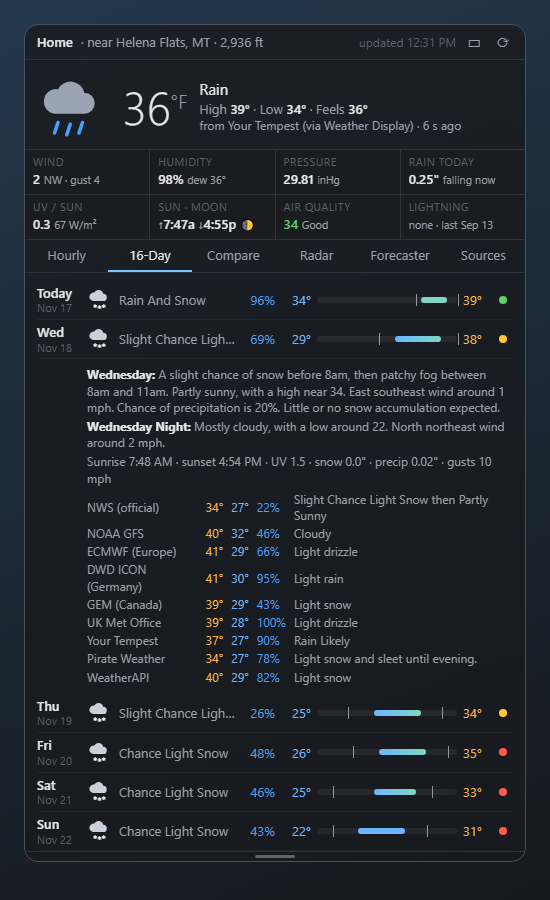
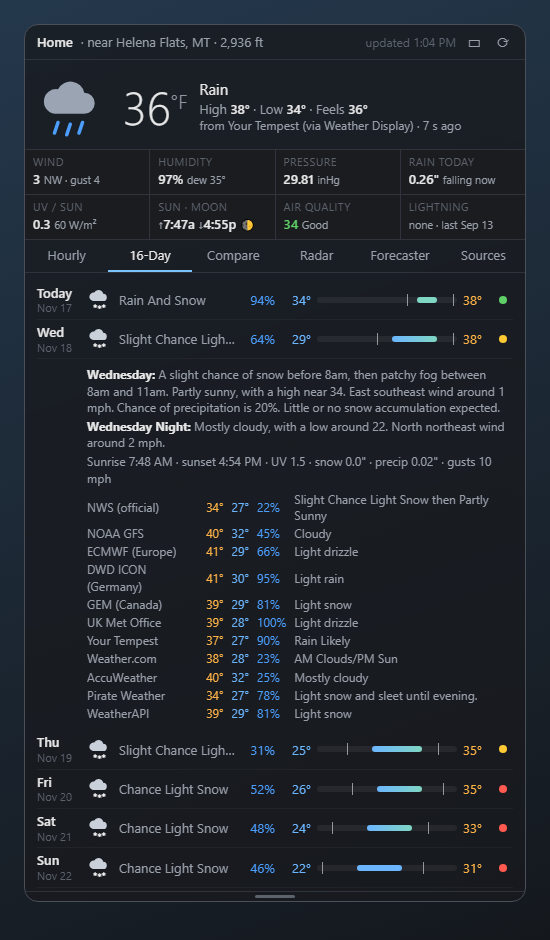
README rewrite: settings, every source with key name and refresh rate, how numbers are worked out, troubleshooting; refresh_minutes now used for no-key sources; screenshots retaken with all sources

diff --git a/weather.py b/weather.py
@@ -677,6 +677,8 @@ def fetch(force=False):
 
     def run(entry, clock):
         name, fn, keyname, every, signup = entry
+        if fn in (src_nws, src_openmeteo):   # no-key sources follow refresh_minutes (min 2)
+            every = max(2, cfg.get("refresh_minutes", every))
         cfile = CACHE / (fn.__name__ + ".json")
         old = load_json(cfile)
         if keyname and not keys.get(keyname):

diff --git a/README.md b/README.md
@@ -1,10 +1,30 @@
 # WeatherDial
 
 One see-through weather panel for the Windows desktop. It pulls the forecast for your exact
-spot from many sources, shows how far they agree, and puts your own weather station's live
-readings on top.
+spot from up to 15 sources, shows how far they agree, and puts your own weather station's
+live readings on top.
 
 ![Hourly](docs/screenshots/hourly.png)
+
+## What it shows
+
+- **Now:** your own station (Tempest) if you have one, else the nearest official station,
+  else the model. Shows wind and gusts, humidity and dew point, pressure and its 3-hour trend,
+  rain today, UV and solar, sunrise and sunset, moon, air quality and lightning.
+- **Warnings:** National Weather Service alerts appear as a red banner. Click it to read the
+  full alert and what to do.
+- **Hourly:** a 48-hour or 7-day chart. It shows the forecast line (the official NWS forecast
+  where it has one), a shaded band for the range of all sources, feels-like (dotted),
+  chance of rain or snow (blue bars for rain, white for snow), wind, night shading and the
+  freezing line.
+- **16-Day:** the average of all sources for each day, with a coloured dot for how well they
+  agree.
+- **Compare:** every source's highs and lows side by side, plus the current readings from
+  your station, the nearest airport and the model.
+- **Radar:** an animated loop of the last 80 minutes, starting on the newest frame.
+- **Forecaster:** the written forecast discussion from your NWS office.
+- **Sources:** which sources are working, with sign-up links for the optional keys.
+- **Compact mode:** just current conditions plus 4 days.
 
 | 16-Day | Compare sources | Radar |
 |---|---|---|
@@ -14,98 +34,135 @@ readings on top.
 |---|---|---|
 | ![Forecaster](docs/screenshots/forecaster.png) | ![Sources](docs/screenshots/sources.png) | ![Compact](docs/screenshots/compact.png) |
 
-**Hidden extras**
+### Hidden extras
 
 | Click a day (16-Day) | Hover the hourly chart | Hourly: 7 days | Right-click menu |
 |---|---|---|---|
 | ![Day details](docs/screenshots/daily-open.png) | ![Hourly tooltip](docs/screenshots/hourly-hover.png) | ![7 days](docs/screenshots/hourly-7day.png) | ![Menu](docs/screenshots/menu.png) |
 
-- **Click a day** in 16-Day for the NWS day and night forecast text, sun times, UV, snow, rain,
-  gusts and every source's numbers for that day.
-- **Hover** the hourly chart for that hour's details and each source's temperature.
-- **Hover a cell** in Compare to see how far that source is from the average.
-- **Click a warning banner** to read the full NWS alert and what to do.
+- **Click a day** in 16-Day for the NWS day and night forecast text, sun times, UV, snow and
+  rain amounts, gusts, and every source's numbers for that day. Click it again to close it.
+- **Hover** the hourly chart to see that hour's details and each source's temperature.
+- **Hover a cell** in Compare to see how far that source is from the average. Hover the
+  Average and Spread rows for what they mean.
+- **Hover the agreement dot** in 16-Day to see the warmest and coldest highs and how many
+  sources there are.
+- **Hover the Lightning box** to see the distance of the last strike.
 
-- **Now:** your station (Tempest), else the nearest official station, else the model.
-  Wind and gusts, humidity and dew point, pressure and its 3-hour trend, rain today, UV and
-  solar, sunrise and sunset, moon, air quality, lightning.
-- **Warnings:** National Weather Service alerts appear as a red banner. Click it to read them.
-- **Hourly:** a 48-hour or 7-day chart. It shows the forecast line, a band for the range of
-  all sources, feels-like, chance of rain or snow, wind, night shading and the freezing line.
-  Hover over it for each source's value.
-- **16-Day:** the average of all sources, with a coloured dot showing how well they agree.
-  Click a day for the NWS text and each source's numbers.
-- **Compare:** each source's highs and lows side by side, plus the current readings from
-  your station, the airport and the model.
-- **Radar:** an animated loop of the last 80 minutes.
-- **Forecaster:** the NWS forecasters' own written discussion.
-- **Sources:** what's working, and sign-up links for the optional keys.
+## How it behaves
 
-It behaves like PCDials: you drag it anywhere, it sits behind your windows, never takes focus
-(safe while gaming), has no taskbar button (just a tray icon), and remembers its spot. It
-hides while its monitor is off and comes back when the monitor is on again.
+Like PCDials: drag it anywhere, on any monitor. It sits behind your other windows, never takes
+focus (safe while gaming), and has no taskbar button, just a tray icon. It remembers its spot,
+size and tab, hides while its monitor is off, and comes back when the monitor is on again.
 
 ## Install
 
 1. Double-click **`Install.bat`**. It installs Python and pywebview if they're missing,
-   creates `config.json` and `keys.json`, and starts the panel.
-2. In `config.json`, set your `lat` / `lon` (decimal degrees; west longitudes are
-   negative, e.g. `-114.3`).
-3. Afterwards, use **`Start.bat`**. Or right-click the tray icon and tick
+   creates `config.json` and `keys.json`, opens `config.json` for you, and starts the panel.
+2. In `config.json`, set your location (see below).
+3. Optional: add free keys for more sources (see **Sources**).
+4. From then on, start it with **`Start.bat`**. Or right-click the tray icon and tick
    **Start with Windows**.
+
+`Install.bat check` only reports what's installed and changes nothing.
+
+## Settings: `config.json`
+
+| Setting | What it does |
+|---|---|
+| `name` | The name shown top-left, e.g. `Home`. |
+| `lat`, `lon` | Your location in decimal degrees. West longitudes are negative, e.g. `-114.3`. Tip: right-click your house in Google Maps and click the numbers to copy them. |
+| `refresh_minutes` | How often the no-key sources (NWS and Open-Meteo) refresh, at least every 2 minutes. Keyed sources keep their own safe pace (see the table below), so this can't use up a key's daily limit. |
+| `weather_display_dir` | Optional. The Weather Display folder, if Weather Display runs your station (see below). Leave it blank otherwise. |
+
+Right-click the panel → **Edit location…** to open the file. Your changes are used from the
+next refresh.
 
 ## Using it
 
 - **Move:** drag the top bar or the current-conditions area.
 - **Taller or shorter:** drag the small handle on the bottom edge. Double-click it to fit the
   tab you're looking at exactly. The height is remembered and never goes past the screen.
-- **Right-click** the panel for its menu: Lock position, Compact / Full size, Small /
-  Medium / Large, Refresh now, Edit API keys, Edit location, Close.
-- The **tray icon** (sun and cloud) has the same menu, plus **Start with Windows**.
-- Your station is re-read every 30 seconds. Each forecast source refreshes at its own pace,
-  well inside its free limits. **Refresh now** won't download the same source more than
-  once every 2 minutes.
+- **Right-click** the panel for its menu: Lock position, Compact / Full size, Small / Medium /
+  Large, Refresh now, Edit API keys…, Edit location…, Close WeatherDial.
+- **The tray icon** (a sun and cloud) has the same options, plus **Start with Windows**.
+- **Updates:** your station is re-read every 30 seconds. **Refresh now** won't download the
+  same source more than once every 2 minutes.
 
 ## Sources
 
-| Source | Key | Gives |
-|---|---|---|
-| National Weather Service (api.weather.gov) | none | official forecast, hourly forecast, alerts, nearest station, forecast discussion |
-| Open-Meteo | none | NOAA GFS, ECMWF, DWD ICON, Canada GEM and UK Met Office models (up to 16 days), air quality, UV, sun times |
-| RainViewer + Esri map | none | radar |
-| Weather Display (on this PC) | none | your Tempest live, read from Weather Display's `sentwurapiddata.txt`. Set `weather_display_dir` in config.json. |
-| Tempest cloud | free personal token: tempestwx.com → Settings → Data Authorizations | lightning, yesterday's rain, Tempest's own forecast |
-| Weather.com | free key for Weather Underground station owners: wunderground.com/member/api-keys | weather.com's own 5-day forecast (the free key doesn't include hourly or 7/10-day) |
-| AccuWeather | key from developer.accuweather.com (free trial, then paid) | 15-day and 72-hour forecast (what you get depends on your plan; the app finds out once and remembers). AccuWeather's night low is moved to the next morning so it lines up with the others. |
-| Pirate Weather | free key | forecast |
-| WeatherAPI.com | free key | forecast (3 days on the free plan after the trial) |
-| Visual Crossing | free key | forecast |
-| Tomorrow.io | free key | forecast |
+The no-key sources alone give 6 forecasts (NWS plus 5 global models); Open-Meteo's blend of
+the models supplies the hourly detail but isn't counted twice. Each key you add is one more
+forecast in the average.
+
+| Source | Key (name in `keys.json`) | Gives | Refreshes |
+|---|---|---|---|
+| National Weather Service (api.weather.gov) | none | Official 7-day and hourly forecast, alerts, nearest station's readings, forecast discussion | `refresh_minutes` |
+| Open-Meteo | none | NOAA GFS, ECMWF, DWD ICON, Canada GEM and UK Met Office models (up to 16 days), air quality, UV, sun times | `refresh_minutes`; models hourly, air quality every 30 min |
+| RainViewer + Esri map | none | Radar | when you open the Radar tab |
+| Weather Display (on this PC) | none | Your Tempest live: read from Weather Display's `sentwurapiddata.txt` | every 30 s |
+| Tempest cloud | `tempest_token`: tempestwx.com → Settings → Data Authorizations → Create Token | Lightning, yesterday's rain, Tempest's own 10-day and hourly forecast | every 5 min |
+| Weather.com | `weathercom`: free for Weather Underground station owners, at wunderground.com/member/api-keys | weather.com's 5-day forecast (this key doesn't include hourly or 7/10-day) | every 30 min |
+| AccuWeather | `accuweather`: developer.accuweather.com (free trial, then paid plans) | 15-day and 72-hour forecast, depending on your plan | every 60 min (~48 requests a day) |
+| Pirate Weather | `pirateweather`: free at pirate-weather.apiable.io | 8-day and hourly forecast | every 30 min |
+| WeatherAPI.com | `weatherapi`: free at weatherapi.com | 14-day and hourly forecast (3 days on the free plan after the trial) | every 30 min |
+| Visual Crossing | `visualcrossing`: free at visualcrossing.com | 15-day and hourly forecast | every 60 min |
+| Tomorrow.io | `tomorrowio`: free at tomorrow.io | About 5-day and hourly forecast | every 30 min |
+
+**Adding a key:** right-click the panel → **Edit API keys…**, paste the key between the
+quotes, and save. It's used from the next refresh. To stop using a source, clear its key.
+`config.json` and `keys.json` stay on your PC and are never uploaded (they're git-ignored).
+
+**When a key stops working** (an expired trial, or a daily limit reached), the **Sources** tab
+says so ("key refused: expired trial or wrong key?" or "too many requests today"). The panel
+keeps working with the other sources. If a source fails briefly, its last good forecast stays
+in use and the source shows yellow.
 
 **Tempest and Weather Display:** only one program can listen to the Tempest hub's local
-broadcast (UDP port 50222). If Weather Display already does, WeatherDial reads the live values
-from the file Weather Display writes every few seconds, so there's no clash and no firewall
-prompt. Lightning isn't in that file; the Tempest cloud token adds it.
+broadcast (UDP port 50222). If Weather Display already does, set `weather_display_dir`.
+WeatherDial then reads the live values from the file Weather Display writes every few
+seconds, with no clash and no firewall prompt. Lightning isn't in that file; the Tempest cloud
+token adds it. The pressure trend (rising, falling or steady) appears after WeatherDial has
+been running for about 2½ hours.
 
-**How the average works:** each day's high and low is the average of every source that
-forecasts that day. Lows are the calendar-day low (that morning), for every source. The dot
-shows agreement: green when the sources are within 5°, yellow within 10°, red beyond that.
-In **Compare**, each cell is high/low. A **red** number is 4° or more **warmer** than that
-day's average; a **blue** one is 4° or more **colder**.
+**Weather.com** gives its free key only to people whose weather station uploads to Weather
+Underground. Weather Display can do that upload for you.
 
-To add or change a key, right-click the panel → **Edit API keys…**, paste it, and save.
-`config.json` and `keys.json` stay on your PC and are never uploaded (they're git-ignored).
+## How the numbers are worked out
+
+- **Daily high and low** = the average of every source that forecasts that day. Every
+  source's low is the *calendar-day* low (that morning). AccuWeather gives the following
+  night's low instead, so its lows are moved to the next day to line up.
+- **Agreement dot** (16-Day): green when all sources' highs and lows are within 5°, yellow
+  within 10°, red when they're further apart. A red dot means the forecast is uncertain.
+- **Thin marks on a 16-Day bar:** the coldest low and the warmest high that any source
+  predicts.
+- **Compare colours:** each cell is high/low. A **red** number is 4° or more **warmer** than
+  that day's average; a **blue** one is 4° or more **colder**. White is within 4°.
+- **Spread (highs):** the warmest minus the coldest high for that day.
+- **Hourly line:** the NWS hourly forecast where it has one (about 6 days), then Open-Meteo's
+  blend. The shaded band is the range of all sources for that hour.
+
+## Troubleshooting
+
+- **Panel not showing:** it sits behind other windows. Minimize them or press Win+D. Look
+  for the sun-and-cloud icon in the tray (it may be under the tray's ^ arrow).
+- **A source is red or grey in Sources:** grey means no key; red shows the reason next to it.
+- **It closed by itself:** see `weatherdial.log` in the WeatherDial folder.
+- **Starting a second copy** does nothing; only one runs at a time.
 
 ## Files
 
 - `app.py`: the desktop panel (window, tray icon, local server on port 8791).
 - `weather.py`: fetches every source and works out the averages. Run `python weather.py`
-  to test from a console.
+  to test them from a console.
 - `panel.html`: the panel itself.
-- `python app.py --server`: preview in a normal browser at http://127.0.0.1:8791/panel.html?preview
-  (only while the panel itself isn't running).
+- `python app.py --server`: a preview in a normal browser at
+  http://127.0.0.1:8791/panel.html?preview (only while the panel isn't running).
+- `config.example.json`, `keys.example.json`: templates that `Install.bat` copies.
 - `data/`: cached downloads (made by the app).
-- `weatherdial.log`: messages and errors when started without a console.
+- `positions.json`: where the panel sits and its size, tab and settings (made by the app).
+- `weatherdial.log`: messages and errors when it runs without a console.
 
 ## Requirements
 
